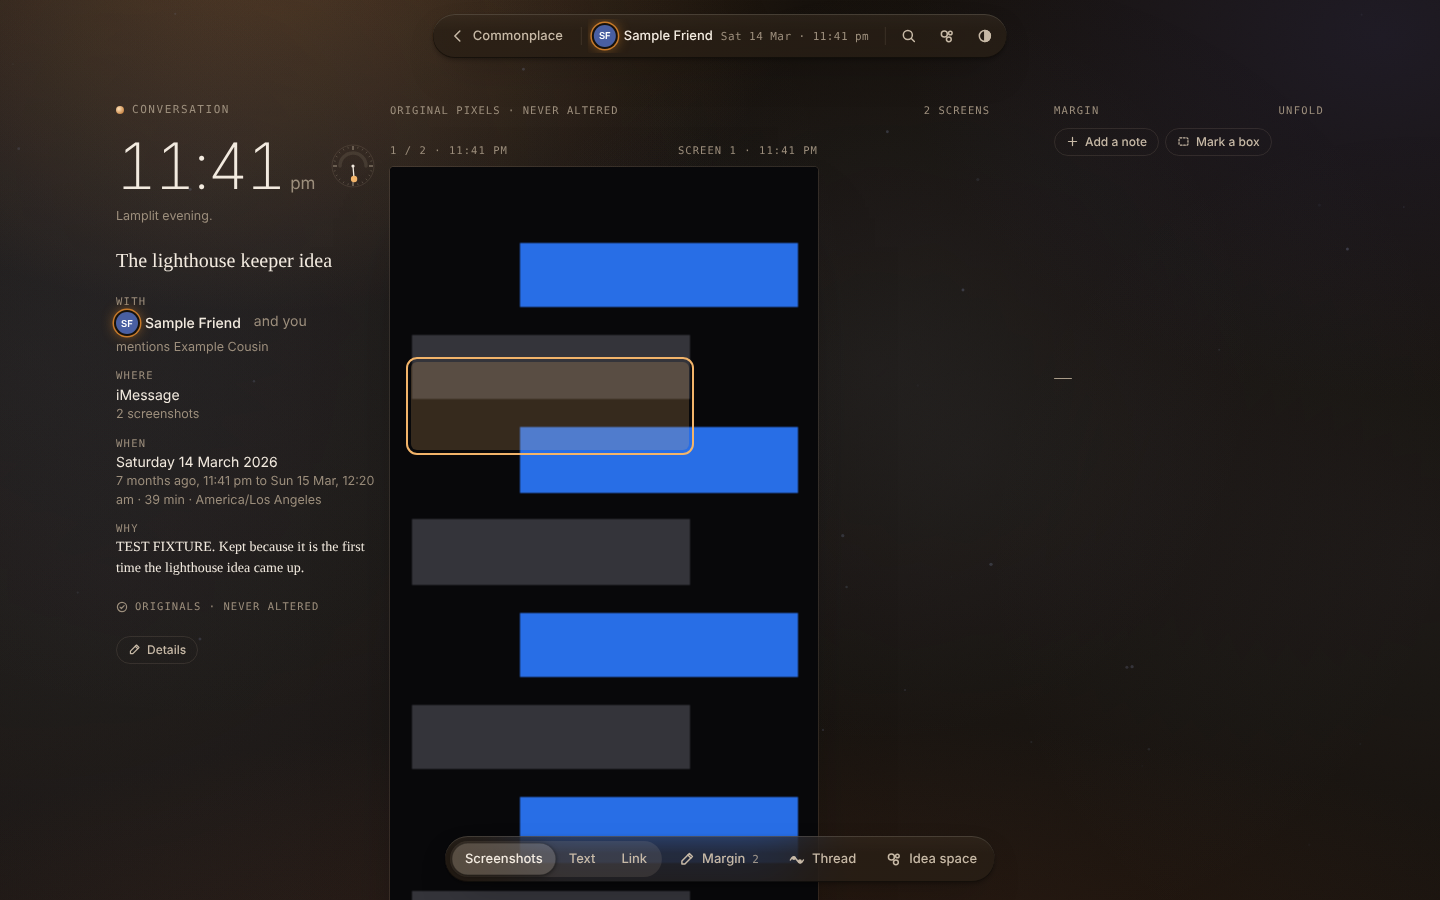
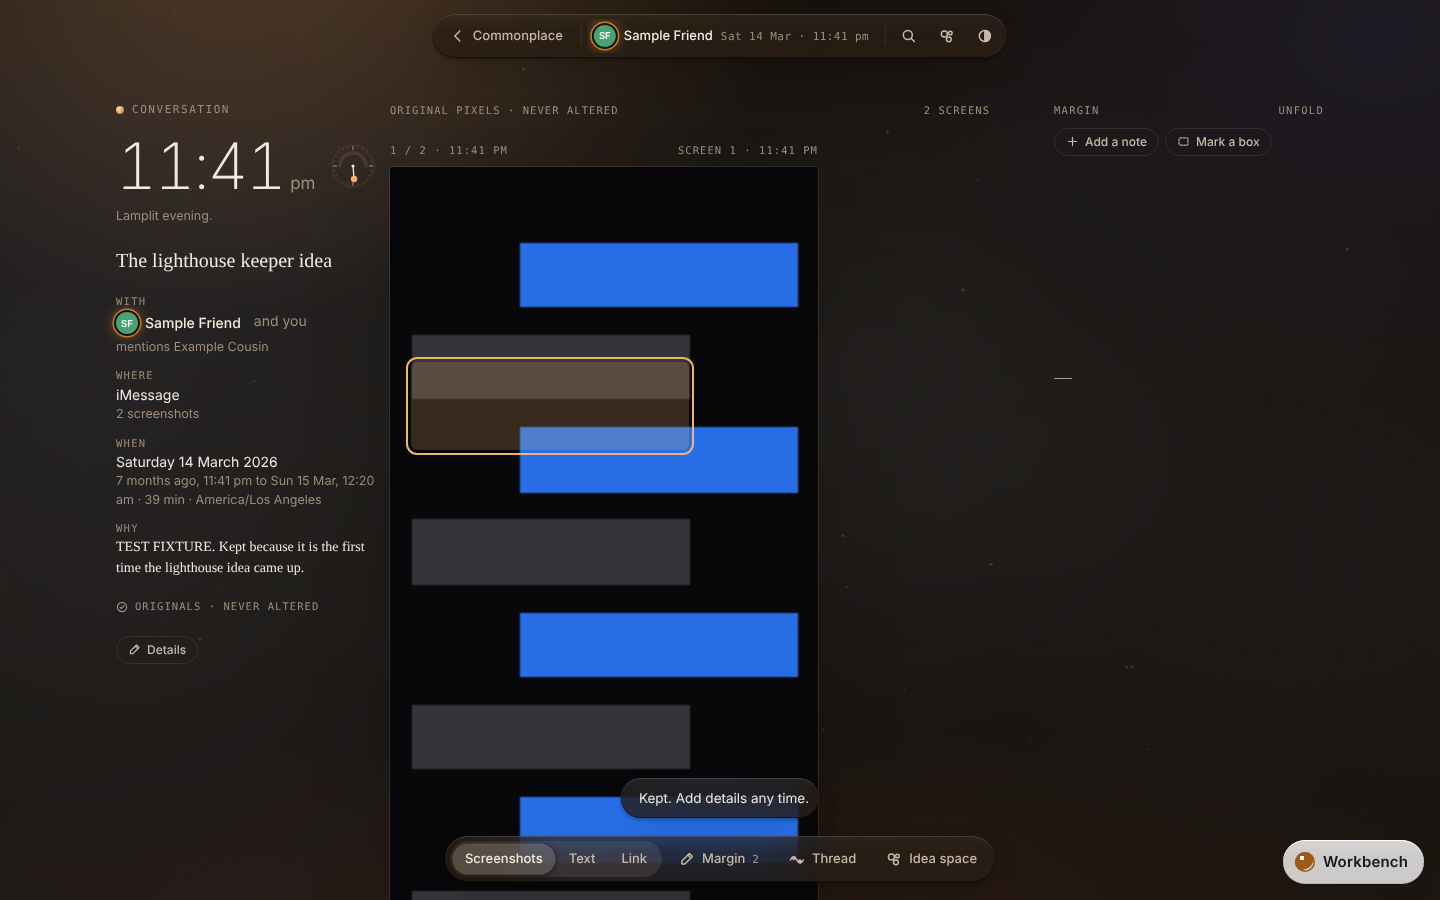
Commonplace: keep screenshots without the Details sheet; dedupe uploads (#110)
A capture of only screenshots now lands on the Moment quietly (a toast says
details can come later) instead of opening Details; words, a link or audio
still open it. Artifact uploads are idempotent per Moment on the file's
SHA-256: the same bytes sent again return the kept artifact (200,
duplicate: true) instead of a second copy. The Moment row is locked for the
check-and-insert so concurrent retries can't race.

This is the quick-win part of #110; the AI enrichment waits on the
owner's answers there.

Claude-Session: https://claude.ai/code/session_01GSF4CoXxb2wMS8H1kDHeNH

diff --git a/assets/commonplace/model.js b/assets/commonplace/model.js
@@ -398,6 +398,17 @@
     return `${h.slice(0, 8)}-${h.slice(8, 12)}-${h.slice(12, 16)}-${h.slice(16, 20)}-${h.slice(20)}`;
   }
 
+  /**
+   * Whether the Details sheet should open after a capture. A capture of only
+   * screenshots needs nothing else (#110), so it lands on the Moment quietly;
+   * anything with words, a link or audio still asks who, when and why.
+   */
+  function detailsAfterCapture(parsed, files) {
+    const list = [...(files || [])];
+    if ((parsed && (parsed.text || parsed.url)) || !list.length) return true;
+    return !list.every((f) => /^image\//.test(f.type || "") || /\.(png|jpe?g|webp|gif)$/i.test(f.name || ""));
+  }
+
   function excerpt(s, n = 160) {
     s = String(s || "").replace(/\s+/g, " ").trim();
     if (s.length <= n) return s;
@@ -409,6 +420,6 @@
     KINDS, KIND_LABEL, SOURCES, SOURCE_LABEL, MONTHS, WEEKDAYS, ALWAYS_DARK, PHASE_NOTE,
     localParts, zonedToISO, isoToLocalInput, formatHour, hourText, formatDate, duration, relative, lightFor, dialSVG, wallLabel, momentInstant,
     initials, hue, withLabel, isSpecial, parseCapture, parseShareHash, route, layoutNotes, visibleNotes, pencilCount,
-    threadGeometry, waveY, splitSnippet, metaBits, batchFiles, pickExportFile, suggestKind, newId, captureIdFor, excerpt,
+    threadGeometry, waveY, splitSnippet, metaBits, batchFiles, pickExportFile, suggestKind, newId, captureIdFor, detailsAfterCapture, excerpt,
   };
 });

diff --git a/assets/commonplace/app.js b/assets/commonplace/app.js
@@ -368,6 +368,7 @@
       status.className = "status";
       status.textContent = "Keeping it…";
       if (!pending || (extra.captureId && pending.id !== extra.captureId)) pending = { id: extra.captureId || M.newId(), momentId: "" };
+      const askDetails = M.detailsAfterCapture(parsed, files);
       try {
         if (!pending.momentId) {
           const body = { clientCaptureId: pending.id, text: parsed.text, url: parsed.url, timezone: BROWSER_TZ, ...extra.fields };
@@ -383,10 +384,11 @@
         }
         pending = null;
         text.value = "";
-        const target = `#m/${id}?details=1`;
+        const target = askDetails ? `#m/${id}?details=1` : `#m/${id}`;
         // A shared link must not be captured again by Back or a reload.
         if (extra.replace) location.replace(target);
         else location.hash = target;
+        if (!askDetails) toast("Kept. Add details any time.");
       } catch (err) {
         status.className = "status err";
         status.textContent = err.message;

diff --git a/assets/commonplace/model.test.js b/assets/commonplace/model.test.js
@@ -132,3 +132,12 @@ test("wall-clock input converts through the Moment's zone, across DST", () => {
   assert.equal(M.isoToLocalInput("2026-03-15T06:41:00Z", "America/Los_Angeles"), "2026-03-14T23:41");
   assert.equal(M.zonedToISO("bad", "UTC"), "");
 });
+
+test("a screenshot-only capture skips the Details sheet (#110)", () => {
+  const png = { type: "image/png", name: "shot.png" };
+  assert.equal(M.detailsAfterCapture({ text: "", url: "" }, [png, { type: "", name: "IMG_1.JPG" }]), false);
+  assert.equal(M.detailsAfterCapture({ text: "said at dinner", url: "" }, [png]), true);
+  assert.equal(M.detailsAfterCapture({ text: "", url: "https://example.com" }, [png]), true);
+  assert.equal(M.detailsAfterCapture({ text: "", url: "" }, [png, { type: "audio/mp4", name: "memo.m4a" }]), true);
+  assert.equal(M.detailsAfterCapture({ text: "words", url: "" }, []), true);
+});

diff --git a/jazz-api/commonplace_media.go b/jazz-api/commonplace_media.go
@@ -177,7 +177,37 @@ func (app *application) cpUploadArtifact(w http.ResponseWriter, r *http.Request)
 	if !ok {
 		return
 	}
-	if !app.cpMomentExists(w, r, user, moment) {
+	// Uploads are idempotent per Moment: the same bytes sent again (a retry
+	// whose response was lost, a double tap) return the artifact already kept.
+	// Locking the Moment row serializes concurrent uploads to it.
+	tx, err := app.db.Begin(r.Context())
+	if err != nil {
+		app.serverError(w, err)
+		return
+	}
+	defer tx.Rollback(r.Context())
+	var locked int
+	if err := tx.QueryRow(r.Context(), `SELECT 1 FROM cp_moments WHERE id=$1 AND user_id=$2 FOR UPDATE`, moment, user).Scan(&locked); err != nil {
+		if errors.Is(err, pgx.ErrNoRows) {
+			writeError(w, 404, "moment not found")
+			return
+		}
+		app.serverError(w, err)
+		return
+	}
+	var existing uuid.UUID
+	err = tx.QueryRow(r.Context(), `SELECT id FROM cp_artifacts WHERE moment_id=$1 AND user_id=$2 AND sha256=$3 ORDER BY position LIMIT 1`, moment, user, media.SHA256).Scan(&existing)
+	if err == nil {
+		a, err := cpScanArtifact(tx.QueryRow(r.Context(), `SELECT `+cpArtifactColumns+` FROM cp_artifacts a WHERE a.id=$1`, existing))
+		if err != nil {
+			app.serverError(w, err)
+			return
+		}
+		writeJSON(w, 200, map[string]any{"artifact": a, "duplicate": true})
+		return
+	}
+	if !errors.Is(err, pgx.ErrNoRows) {
+		app.serverError(w, err)
 		return
 	}
 	id := uuid.New()
@@ -187,9 +217,12 @@ func (app *application) cpUploadArtifact(w http.ResponseWriter, r *http.Request)
 		return
 	}
 	// App uploads use the upload- prefix so bundle re-imports keep them.
-	_, err = app.db.Exec(r.Context(), `INSERT INTO cp_artifacts(id,moment_id,user_id,artifact_key,position,kind,object_name,content_type,size_bytes,sha256,width,height,duration_ms,original_name)
- SELECT $1,$2,$3,$4,(SELECT coalesce(max(position)+1,0) FROM cp_artifacts WHERE moment_id=$2),$5,$6,$7,$8,$9,$10,$11,$12,$13 WHERE EXISTS(SELECT 1 FROM cp_moments WHERE id=$2 AND user_id=$3)`,
+	_, err = tx.Exec(r.Context(), `INSERT INTO cp_artifacts(id,moment_id,user_id,artifact_key,position,kind,object_name,content_type,size_bytes,sha256,width,height,duration_ms,original_name)
+ SELECT $1,$2,$3,$4,(SELECT coalesce(max(position)+1,0) FROM cp_artifacts WHERE moment_id=$2),$5,$6,$7,$8,$9,$10,$11,$12,$13`,
 		id, moment, user, "upload-"+id.String()[:8], media.Kind, name, media.ContentType, len(body), media.SHA256, media.Width, media.Height, duration, cpCleanFileName(r.Header.Get("X-File-Name")))
+	if err == nil {
+		err = tx.Commit(r.Context())
+	}
 	if err != nil {
 		app.deleteObjectsBestEffort(r.Context(), []string{name})
 		app.serverError(w, err)

diff --git a/jazz-api/commonplace_integration_test.go b/jazz-api/commonplace_integration_test.go
@@ -180,6 +180,20 @@ func TestCommonplaceCaptureEditAndMargin(t *testing.T) {
 	if h.objects.count("commonplace/") != 1 {
 		t.Fatal("object not stored under commonplace/")
 	}
+	// The same bytes again (a retry whose response was lost) return the kept
+	// artifact instead of a duplicate; different bytes are a new artifact.
+	w = h.raw("POST", base+"/moments/"+id+"/artifacts", png, map[string]string{"Content-Type": "image/png", "X-File-Name": "again.png"})
+	var repeat struct {
+		Artifact  cpArtifact
+		Duplicate bool
+	}
+	json.Unmarshal(w.Body.Bytes(), &repeat)
+	if w.Code != 200 || !repeat.Duplicate || repeat.Artifact.ID != up.Artifact.ID || h.objects.count("commonplace/") != 1 {
+		t.Fatal("repeated upload was not idempotent", w.Code, w.Body.String())
+	}
+	if w := h.raw("POST", base+"/moments/"+uuid.NewString()+"/artifacts", png, map[string]string{"Content-Type": "image/png"}); w.Code != 404 {
+		t.Fatal("upload to a missing Moment", w.Code)
+	}
 	if w := h.raw("POST", base+"/moments/"+id+"/artifacts", []byte("not an image"), map[string]string{"Content-Type": "image/png"}); w.Code != 400 {
 		t.Fatal("bad image accepted", w.Code)
 	}

diff --git a/docs/commonplace/README.md b/docs/commonplace/README.md
@@ -38,6 +38,8 @@ Keyboard: `/` or `⌘K` search, `M` margin, `T` or `1`–`4` switch views, `I` I
 **Capture.** Paste or drop a screenshot (it is kept instantly), pick files,
 or paste words or a link. Nothing else is required; Details (title, kind, who
 with which role, when and until in which time zone, where, why) can come later.
+A capture of only screenshots lands on the Moment without opening Details;
+words, a link or audio still open it.
 
 **The margin.** Folded by default: small ticks show where there is pencil.
 `M` unfolds it. Notes sit beside the line or the box on the screenshot they
@@ -92,7 +94,7 @@ that needs a CORS preflight: JSON, raw media for artifact uploads, or
 | `GET /moments/{id}` | The full Moment: artifacts, lines, annotations, threads with knots, doorways |
 | `PATCH /moments/{id}` | `{expectedRevision, kind?, title?, why?, occurredAt?, endedAt?, timezone?, source?, sourceDetail?, people?: [{id or name, role}]}`; 409 with the current Moment on a stale revision |
 | `DELETE /moments/{id}` | Deletes the Moment and its stored files |
-| `POST /moments/{id}/artifacts` | Raw image or audio body (validated like inspiration images); headers `X-File-Name`, `X-Image-Width/Height` (WebP), `X-Duration-Ms` |
+| `POST /moments/{id}/artifacts` | Raw image or audio body (validated like inspiration images); headers `X-File-Name`, `X-Image-Width/Height` (WebP), `X-Duration-Ms`; idempotent per Moment on the file's SHA-256 (201, then 200 with `duplicate: true` and the kept artifact) |
 | `DELETE /artifacts/{id}` | Removes one artifact |
 | `GET /media/{artifactId}` | 302 to a 10-minute signed URL in the private bucket |
 | `POST /moments/{id}/lines`, `PATCH /lines/{id}`, `DELETE /lines/{id}` | Transcript lines (PATCH needs `expectedRevision`) |
